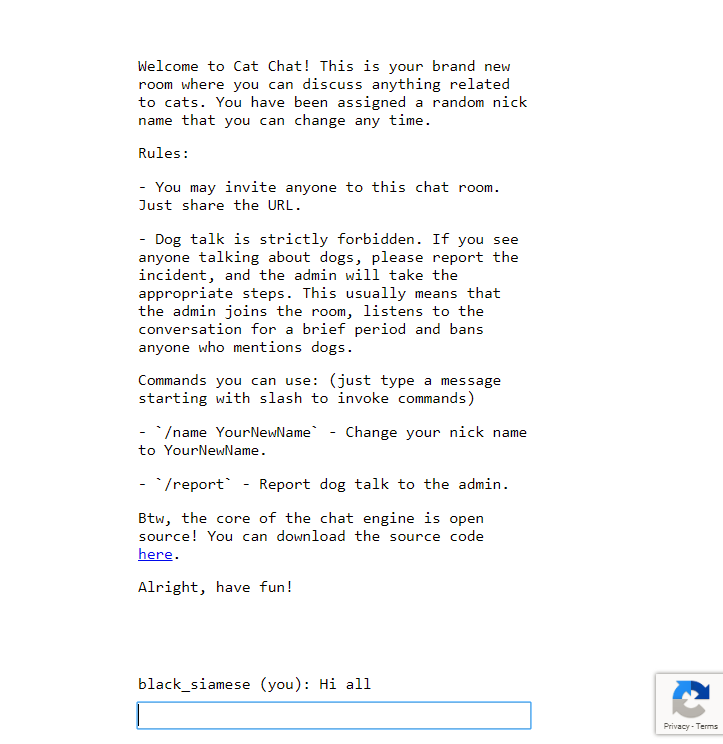
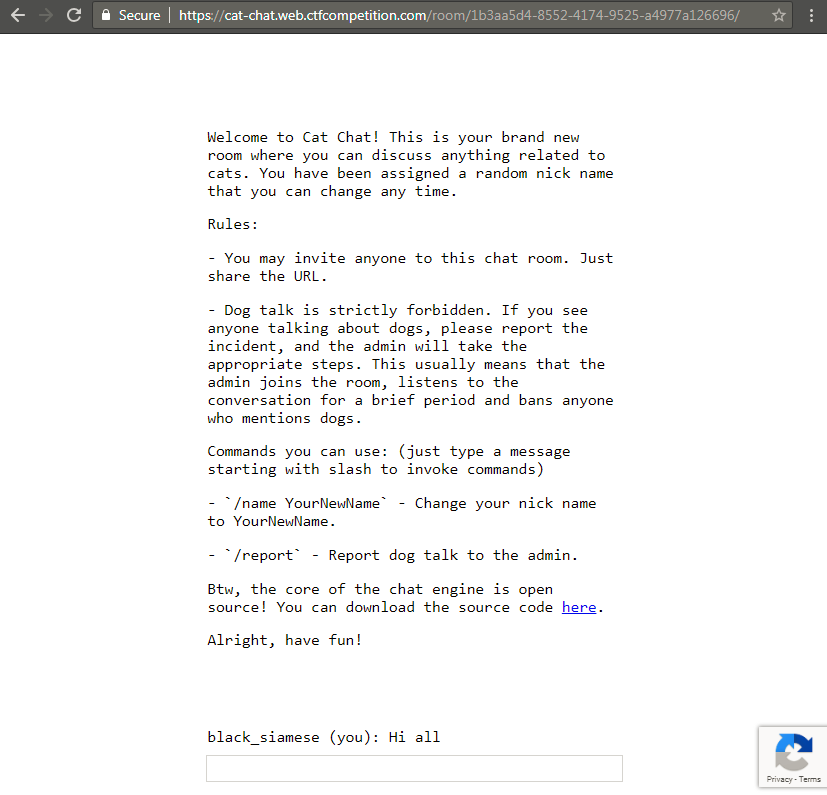
first look

Changed region(s): [[0.0, 0.0, 1.0, 0.8347], [0.1826, 0.8965, 0.7607, 0.9892], [0.8824, 0.8965, 1.0, 1.0]]

diff --git a/_posts/2018-06-26-GCTF17-WEB-210.md b/_posts/2018-06-26-GCTF17-WEB-210.md
@@ -1,7 +1,7 @@
 ---
 layout: post
 title: Google CTF 2018 WEB 210
-tags: [ctf, pwn, write-up, rctf18, null-byte-heap-overflow, fastbin-attack]
+tags: [ctf, web, write-up, gctf18, css-injection, cookie-injection]
 ---
 
 ### Challenge: Cat Chat
@@ -12,4 +12,11 @@ You discover this cat enthusiast chat app, but the annoying thing about it is th
 https://cat-chat.web.ctfcompetition.com/  
 
 ### First look
+When opening the challenge URL, we are quickly make a few observations
+- Its a chat application
+- We are assigned a random nickname
+- Redirected URL is having a unique chat room id
+- Rules section stats that "Dog talk" can get you banned
+- `/name new_nick` can be used to change your nickname
+- `/report` can be used to inform admin about users doing `Dog talk` and get them banned
 ![first look](../ctfs/gctf18/web/cat_chat-210/first_look.png)
